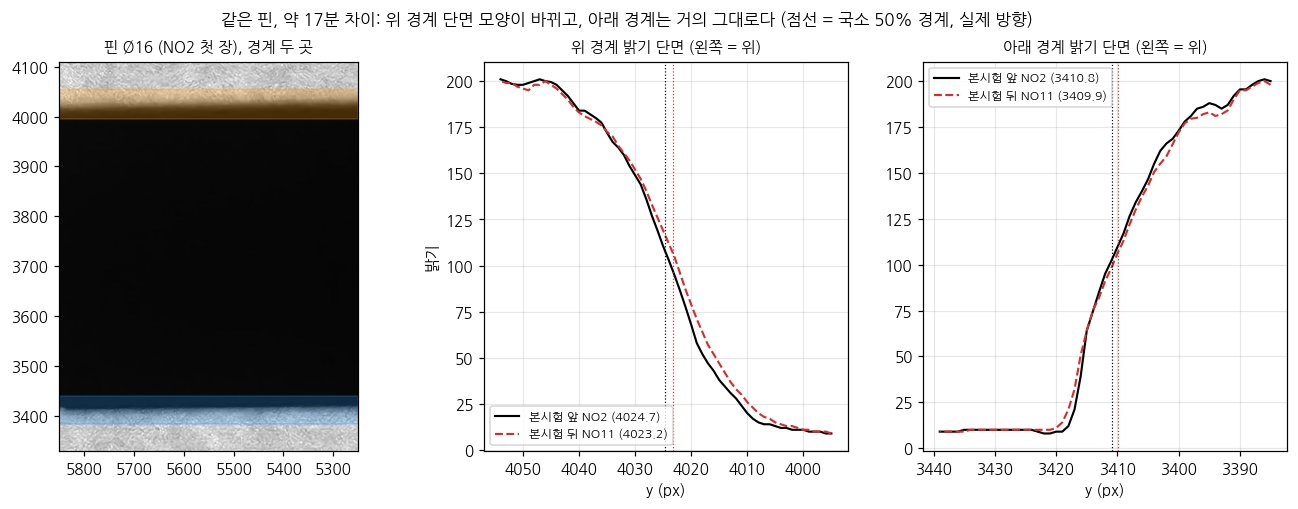
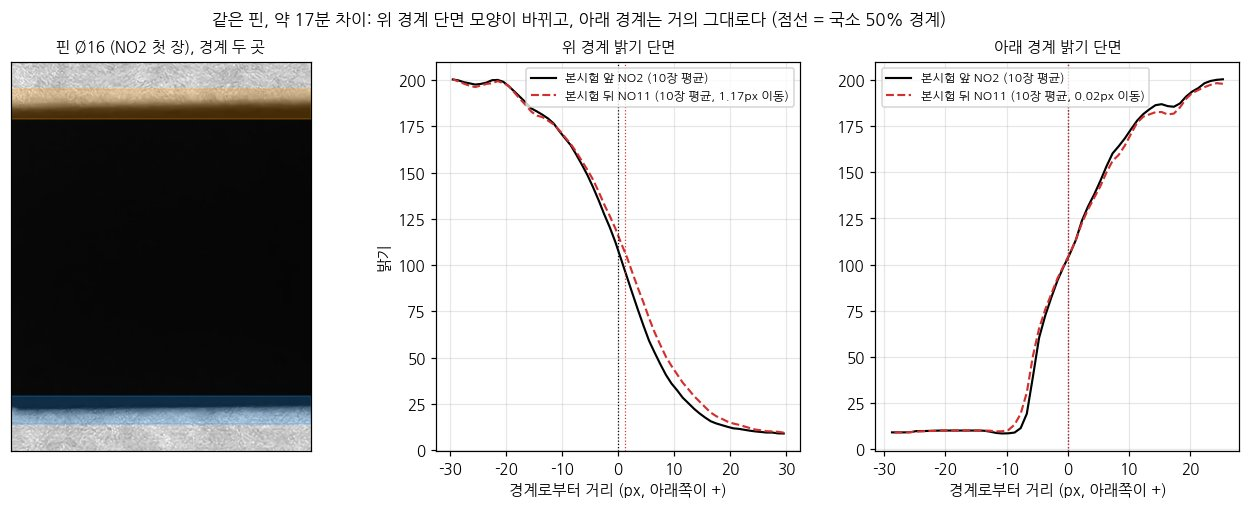
3차 문서 그림 정리: 사진 칸 축 숫자와 회전 부연 설명 제거, 경계 단면은 경계로부터 거리로, 핀 단면은 10장 평균

Changed region(s): [[0.0, 0.0, 0.9984, 0.9725]]

diff --git a/docs/05_meetings/2026-10-23_3차촬영_분석정리.md b/docs/05_meetings/2026-10-23_3차촬영_분석정리.md
@@ -14,16 +14,13 @@
 - 실측: NO1 20.011 · NO2 20.020 · NO3 20.028 · NO4 20.019 · NO5 20.030 · NO6 20.011 · NO7 20.014 · NO8 20.026 · NO9 20.009 · NO10 20.022 · **NG1 19.968 · NG2 20.044**
 - 사진: 16320x7532, 1/60 · ISO 50 고정(암막 없음은 ISO 12). 1px 약 26.7µm(Ø20 = 약 750px). 공차 폭 20µm = 0.75px
 - 주의할 점
-  - 사진이 EXIF 방향 3(180도 회전)으로 저장돼 있다. 원본 파일 좌표는 위·아래, 왼쪽·오른쪽이 실제와 반대다
-  - 이 문서의 위·아래·왼쪽·오른쪽과 그림은 모두 실제 방향이다(핀이 샤프트 오른쪽). x·y 숫자만 원본 파일 좌표다
-  - (10-23 정정) 처음 올린 판은 원본 파일 방향 그대로 보고 위·아래를 적어서, 경계의 위·아래와 그림 방향이 실제와 반대였다. 방향만 고쳤고 숫자는 그대로다
+  - 문서의 x·y 숫자는 코드에서 쓰는 원본 파일 좌표다(파일이 180도 회전으로 저장돼 있어 실제와 방향이 반대)
   - NO1만 1.41배 디지털 줌·1/40으로 찍혔다. NO1을 빼고 계산해도 판정은 같다
   - 기준 핀 Ø16은 공인 핀게이지가 아니라 현장에서 측정한 값이다. 분석은 핀의 절대 지름을 쓰지 않고, 같은 핀의 px 변화만 본다
 - 측정 구간: Ø20 단(칼라와 홈 사이, 원본 x 약 7995 \~ 8355)의 가운데 x 8015 \~ 8335. 처음에 끝단(약 Ø16.7 구간)을 잘못 측정했다가 바로잡았다
 
 <img src="../images/20261021_3rd/photo1_scene.jpg" width="900">
 
-- 그림은 실제 방향으로 돌려서 보였다. 축 숫자는 원본 파일 좌표라 오른쪽·아래로 갈수록 작아진다
 - 아래는 Ø20 단 확대다. 왼쪽이 칼라 쪽, 오른쪽이 홈 쪽이고, 점선 사이가 측정 구간이다. 초록 점은 열마다 잡은 국소 50% 경계다
 
 <img src="../images/20261021_3rd/photo2_d20_edges.jpg" width="450">
@@ -49,7 +46,7 @@
 | 빛이 바뀌었나 | 아니다. 노출 고정, 배경 밝기 164 \~ 166으로 일정하다 |
 | 경계 모양 | 경계를 잡는 밝기에 따라 줄어든 양이 약 2.5배 다르다. 물체가 실제로 작아지거나 배율이 바뀐 것이라면 어느 밝기로 잡든 같은 만큼 움직여야 한다. 그래서 **경계 밝기 모양 자체가 시간에 따라 변했다**고 본다. 국소 50% 기준으로는 아래 경계는 그대로(+0.02px)이고 위 경계만 1.17px 움직였다 |
 
-아래는 본시험 앞(NO2 첫 장)과 뒤(NO11 마지막 장)의 핀 경계 밝기 단면이다. 아래 경계는 두 선이 거의 겹치고, 위 경계는 단면 모양이 달라졌다.
+아래는 본시험 앞(NO2 10장)과 뒤(NO11 10장)의 핀 경계 밝기 단면 평균이다. 아래 경계는 두 선이 거의 겹치고, 위 경계는 단면 모양이 달라졌다.
 
 <img src="../images/20261021_3rd/photo4_pin_edge_profile.jpg" width="900">
 
@@ -132,7 +129,7 @@
 
 <img src="../images/20261021_3rd/photo3_window_band.jpg" width="850">
 
-- 위 그림(NO2 첫 장, Ø20 구간): 창 맨 아래 10%가 어두워서 문턱이 18로 내려가고, 아래 경계가 국소 50%보다 약 5px 안쪽(3359 vs 3354)에서 잡혔다
+- 위 그림(NO2 첫 장, Ø20 구간): 창 맨 아래 10%가 어두워서 문턱이 18로 내려가고, 아래 경계가 국소 50%보다 약 5px 안쪽에서 잡혔다
 - 경계 바로 바깥 20 \~ 60px와 안쪽 10 \~ 30px의 밝기 중간값으로 잡는 국소 50% 방식으로 190장을 다시 측정했다. 이 문서의 50% 숫자는 모두 다시 측정한 값이다
 - 처음 값과 비교
 

diff --git a/docs/05_meetings/2026-10-23_3차멘토링_준비.md b/docs/05_meetings/2026-10-23_3차멘토링_준비.md
@@ -17,7 +17,7 @@
 
 ![](../images/20261021_3rd/photo1_scene.jpg)
 
-- 실제 방향(핀이 샤프트 오른쪽). 파란 상자 = 기준 핀 Ø16, 주황 상자 = 측정한 Ø20 단. 축 숫자는 원본 파일 좌표라 거꾸로 간다
+- 파란 상자 = 기준 핀 Ø16, 주황 상자 = 측정한 Ø20 단
 
 ![](../images/20261021_3rd/photo2_d20_edges.jpg)
 
@@ -43,7 +43,7 @@
 
 ![](../images/20261021_3rd/photo4_pin_edge_profile.jpg)
 
-- 같은 핀의 경계 밝기 단면, 본시험 앞(NO2) vs 뒤(NO11). 아래 경계는 거의 겹치고 위 경계 단면 모양이 바뀌었다
+- 같은 핀의 경계 밝기 단면, 본시험 앞(NO2 10장 평균) vs 뒤(NO11 10장 평균). 아래 경계는 거의 겹치고 위 경계 단면 모양이 바뀌었다
 
 - **원인(공통):** 촬영 중 시간에 따라 크기가 변했고, 그 양이 공차보다 크다. 촬영 순서가 시편 순서와 같아서(NO2 -> NO12) 시간 변화와 시편 차이가 섞였다
   - 팀장: 배율·빛 변화는 아니다(가로 위치·배경 밝기로 확인). 경계를 잡는 밝기에 따라 줄어든 양이 2.5배 달라서, 경계 밝기 모양이 변한 것으로 보고 폰 처리·센서 쪽을 추정한다
